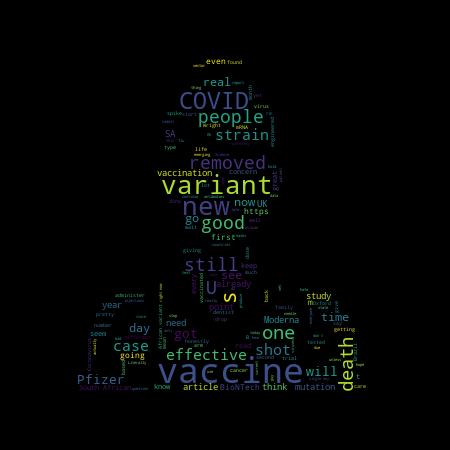
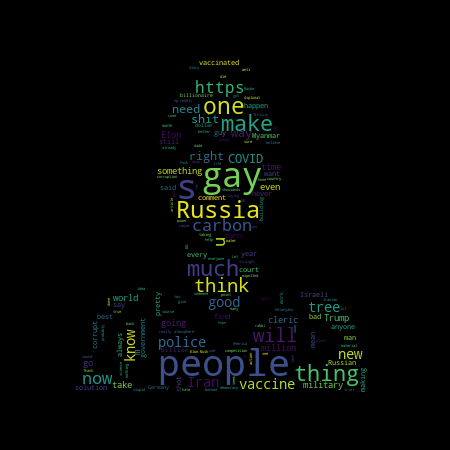
Frontend changes per request of instructor

Changed region(s): [[0.3422, 0.1244, 0.6533, 0.7156], [0.1556, 0.6222, 0.8089, 0.8711], [0.6533, 0.6222, 0.6844, 0.6533]]

diff --git a/reddit_analyzer/analysis/templates/analysis/results.html b/reddit_analyzer/analysis/templates/analysis/results.html
@@ -6,7 +6,12 @@
     <div class="containers">
       <div class="sew">
           <ol class="list-group">
+          <a href=" " title="This is a list view showing which subreddit you did a search on and the submission raw scores, along with submission titles." style="background-color:#FFFFFF;color:blue;text-decoration:none">?</a>
           <li class="list-group-item" style="color:black;float: right">Your results for {{topic}}</li>
+          <li class="list-group-item" style="color:black;float: right">Engagement results for top submissions are {{score}}</li>
+          <li class="list-group-item" style="color:black;float: right">Titles of top submissions, in descending order:    {{title}}</li>
+
+
               {% if positive > negative and positive > neutral%}
                   <li class="list-group-item"style="color:black;float: right">The general sentiment in this subbredit is slightly positive</li>
               {% elif negative > positive and negative > neutral %}
@@ -20,18 +25,21 @@
       </div>
     </div>
     <style>
+
         .sew {
             clear:left;
-            height:25px;
+            height:250px;
             margin: 40px;  // See below for explanation of this
         }
     </style>
     <div class="sew1">
+        <a href=" " title="This is a pie-chart showing the amount of positive-negative and neutral comments the submissions." style="background-color:#FFFFFF;color:blue;text-decoration:none">?</a>
         <h5 style="color:black;">Pie-Chart of Positive-Negative Comments</h5>
     <div id="container_pie"  style ="width:450px;float:left;">
       <canvas id="pie-chart"></canvas>
 
     </div>
+        <a href=" " title="This is a histogram of submission scores. It shows the submission engagement ratings of selected submissions" style="background-color:#FFFFFF;color:blue;text-decoration:none;float: right">?</a>
         <h5 style="color:black;float:right" >Bar-Chart of Submission Scores</h5>
         <div id="container"  style ="width:450px;float:right">
             <canvas id="bar-chart"></canvas>
@@ -51,7 +59,6 @@
     <div class="sew2">
     <div id="container" >
         <h5 style="color:black;" >Word Cloud generated from most frequently used words</h5>
-
         {% load static %}
         <img src="{% static 'images/wordcloud.png' %}" alt="Word-Cloud not be Displayed!!!!!" width="500" height="500">
     </div>
@@ -70,8 +77,9 @@
 
   <script>
     var score_str = [{{score}}];
+    var b = parseInt([{{score}}]) + "<br>";
+    console.log(typeof (b))
     var scores = [];
-    console.log(score_str);
 
     var config = {
       type: 'pie',
@@ -91,12 +99,12 @@
     new Chart(document.getElementById("bar-chart"), {
         type: 'bar',
         data: {
-            labels: ["Submission #1", "Submission #2", "Submission #3", "Submission#4", "Submission#5"],
+            labels: ["Submission #1-Comments", "Submission #2-Comments", "Submission #3-Comments", "Submission#4-Comments", "Submission#5-Comments"],
             datasets: [
                 {
                     label: "Submission Scores",
                     backgroundColor: ["#3e95cd", "#8e5ea2","#3cba9f","#e8c3b9","#c45850"],
-                    data: score_str
+                    data: b
                 }
             ]
         },

diff --git a/reddit_analyzer/analysis/views.py b/reddit_analyzer/analysis/views.py
@@ -49,7 +49,7 @@ class AnalysisView(generic.CreateView,LoginRequiredMixin):
             #for item in reddit.subreddit("test").gilded():
                 #mitem = sum(item)
             try:
-                result_dict,scores=AnalysisDone(top_posts)
+                result_dict,scores,titles=AnalysisDone(top_posts)
                 #result_dict, token_count=AnalysisDone(top_posts)
                 #result_vict=AnalysisTextBlob(top_posts)
 
@@ -68,6 +68,7 @@ class AnalysisView(generic.CreateView,LoginRequiredMixin):
                 score_array_str = [str(i) for i in scores]
                 score_str = ','.join(score_array_str)
                 self.object.score=score_str
+                self.object.title = titles
                 self.object.save()
                 return HttpResponseRedirect("results")
 
@@ -88,6 +89,8 @@ class ResultsView(generic.TemplateView,LoginRequiredMixin):
         context['neutral']=analysis.analysis_neutral
         context['topic']= analysis.topic
         context['score'] = analysis.score
+        context['title'] = analysis.title
+        print(type(analysis.score))
         context['data']= [analysis.analysis_positive, analysis.analysis_negative, analysis.analysis_neutral]
         context['labels']= ['Positive Comments', 'Negative Comments', 'Neutral Comments']
         return context
@@ -102,12 +105,14 @@ class HistoryView(generic.ListView,LoginRequiredMixin):
 
 def AnalysisDone(top_posts):
     scores =[]
+    titles = []
     for submission in top_posts:
         sub_entries_nltk = {'negative': 0, 'positive' : 0, 'neutral' : 0}
         sub_entries_textblob = {'negative': 0, 'positive' : 0, 'neutral' : 0}
         text_blob_sentiment(submission.title, sub_entries_textblob)
         nltk_sentiment(submission.title, sub_entries_nltk)
         scores.append(submission.score)
+        titles.append(submission.title)
         #print(type(sub_entries_nltk))
         submission_comm = reddit.submission(id=submission.id)
 
@@ -145,7 +150,7 @@ def AnalysisDone(top_posts):
     wc.to_file("static/images/wordcloud.png")
     image_colors=ImageColorGenerator(reddit_coloring)
 
-    return sub_entries_nltk,scores
+    return sub_entries_nltk,scores, titles
 
 def AnalysisTextBlob(top_posts):
     for submission in top_posts:

diff --git a/reddit_analyzer/analysis/migrations/0017_auto_20210209_1301.py b/reddit_analyzer/analysis/migrations/0017_auto_20210209_1301.py
@@ -1,0 +1,29 @@
+# Generated by Django 3.1.5 on 2021-02-09 13:01
+
+from django.db import migrations, models
+
+
+class Migration(migrations.Migration):
+
+    dependencies = [
+        ('analysis', '0016_analysis_score'),
+    ]
+
+    operations = [
+        migrations.AddField(
+            model_name='analysis',
+            name='title',
+            field=models.CharField(default='ahmet', max_length=500, verbose_name='ahmet'),
+            preserve_default=False,
+        ),
+        migrations.AlterField(
+            model_name='analysis',
+            name='limit',
+            field=models.IntegerField(verbose_name='How many posts to visualize'),
+        ),
+        migrations.AlterField(
+            model_name='analysis',
+            name='topic',
+            field=models.CharField(max_length=300, verbose_name='Please enter a valid subreddit name(e.g. Coronavirus , politics , news'),
+        ),
+    ]

diff --git a/reddit_analyzer/analysis/models.py b/reddit_analyzer/analysis/models.py
@@ -17,6 +17,7 @@ class Analysis(models.Model):
     user=models.ForeignKey(User,related_name='analysis',on_delete=models.CASCADE)
     topic=models.CharField(('Please enter a valid subreddit name(e.g. Coronavirus , politics , news'),max_length=300)
     score = models.CharField(('0,0'),max_length=300)
+    title = models.CharField(('ahmet'), max_length = 500)
     analysis_positive=models.IntegerField(blank=False, null=False)
     analysis_negative=models.IntegerField(blank=False,null=False)
     analysis_neutral=models.IntegerField(blank=False,null=False)
